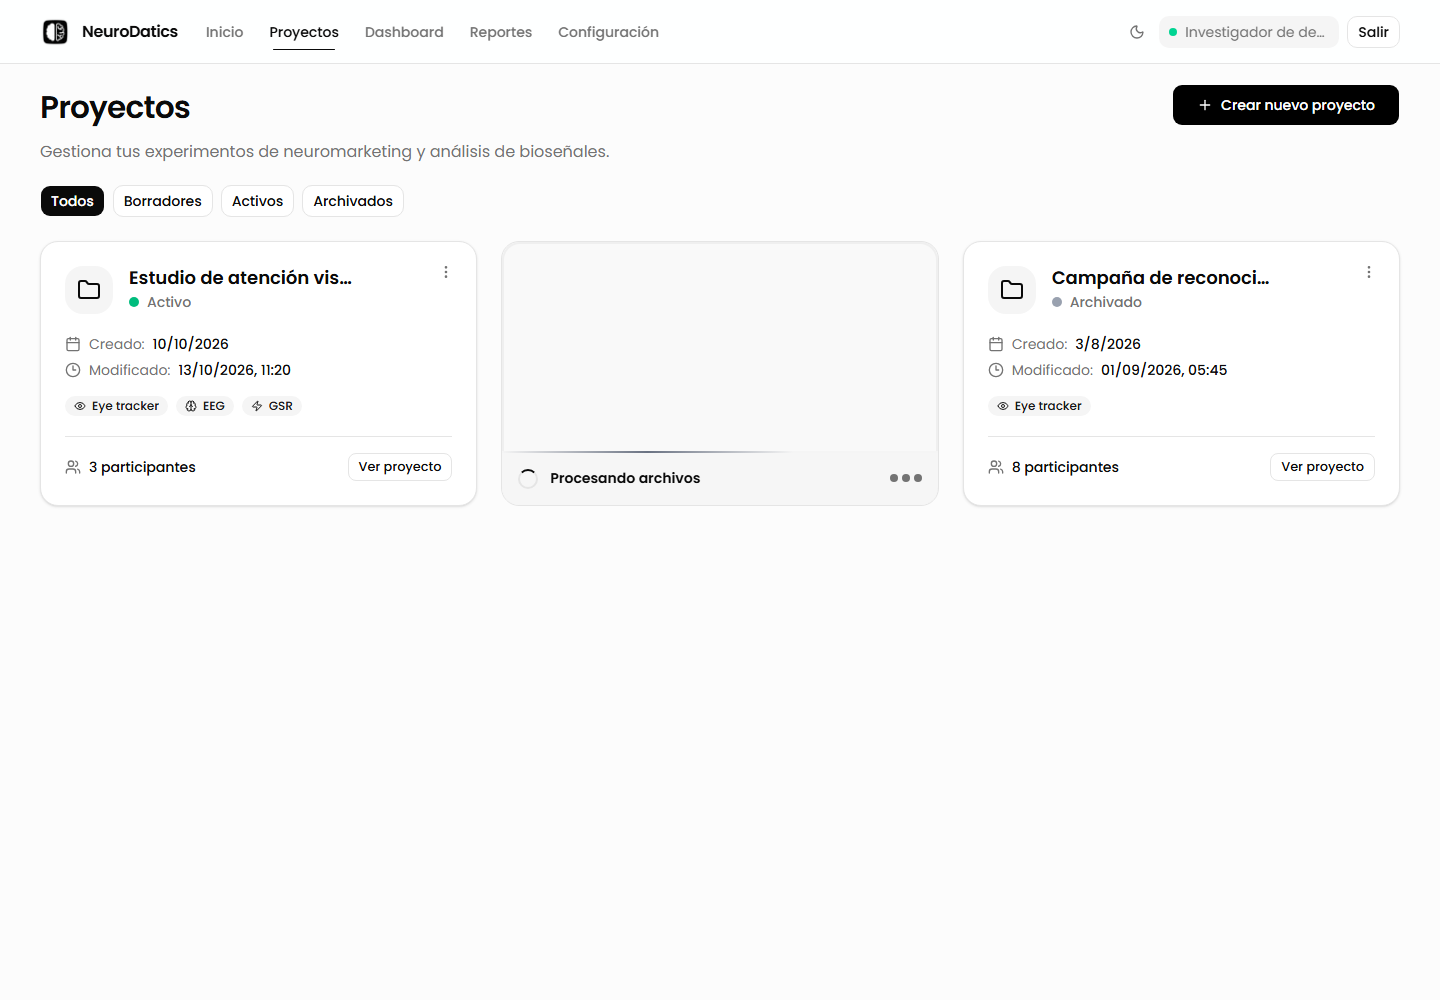
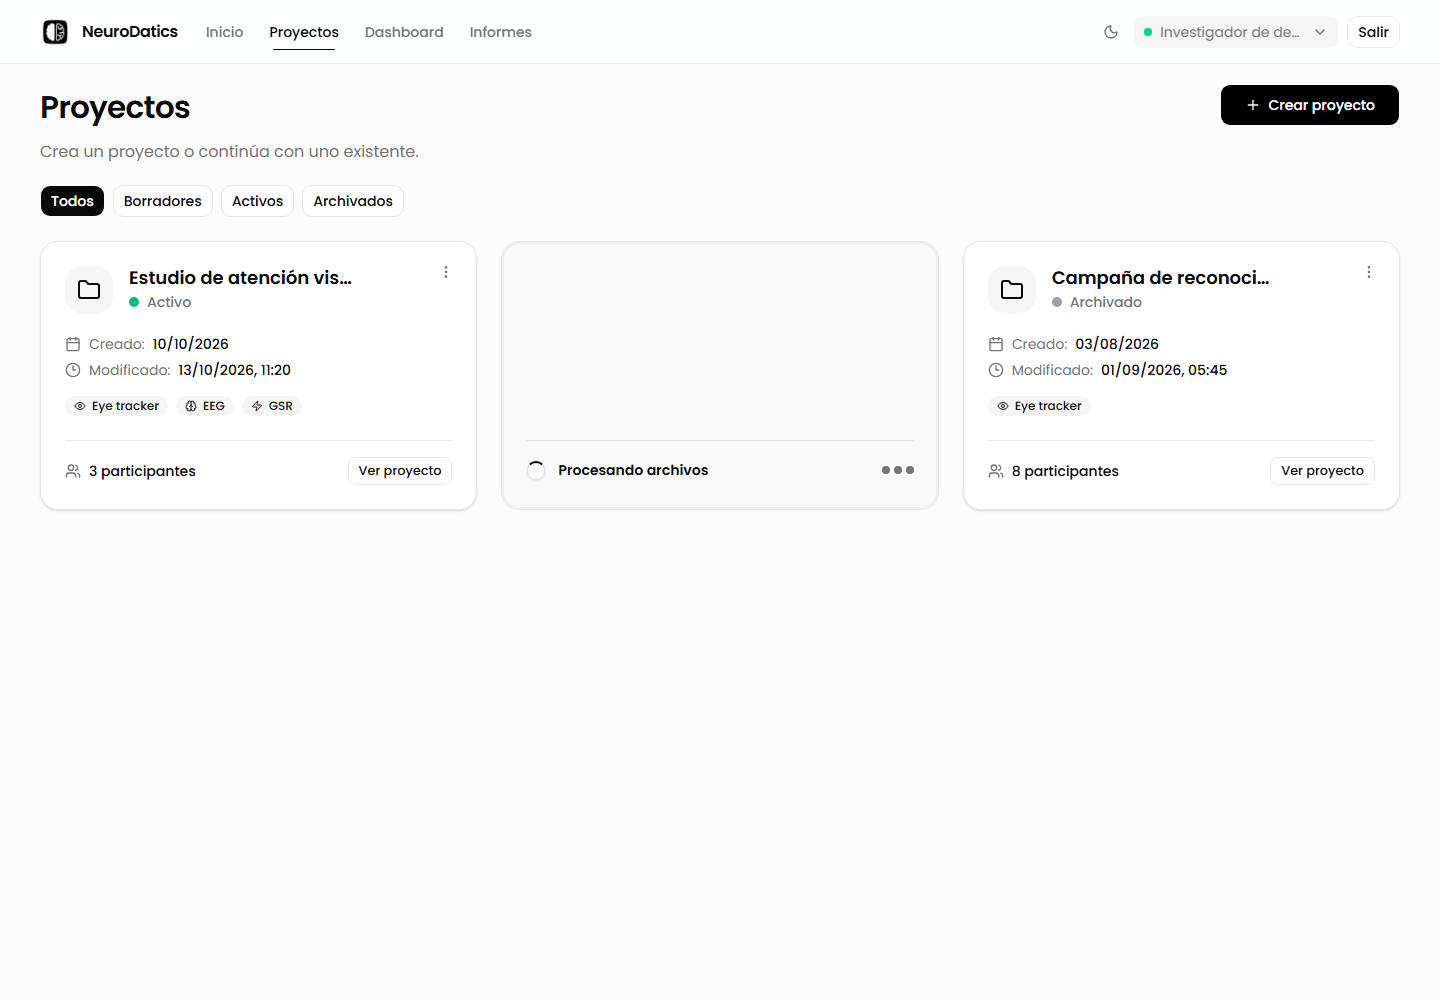
Capturas del manual regeneradas y CHANGELOG de la limpieza

diff --git a/docs/CHANGELOG.md b/docs/CHANGELOG.md
@@ -5,6 +5,48 @@ bajo **Sin publicar**, y pasan a una versión al entregarla.
 
 ## Sin publicar
 
+### Seguridad y fallos
+
+- **Estudiantes:** la aplicación ya no intenta abrir rutas de red (`\\equipo\carpeta`) que lleguen en la
+  dirección de una página. Antes, una web visitada con NeuroDatics abierto podía hacer que Windows enviara la
+  identidad del estudiante a otro equipo.
+- **Estudiantes:** la caché de vídeos y fotogramas se guarda en la carpeta de datos de NeuroDatics y se limpia
+  sola. Antes crecía sin límite en `C:\data`, que se puede borrar a mano.
+- **Servidor:** nueva opción `AUTH_ALLOWED_EMAILS` para decidir qué cuentas de Google pueden entrar (vacía =
+  todas, como hasta ahora). `deployment/CONFIGURACION-GOOGLE.md` recomienda además dejar la app de Google en modo
+  de prueba con las cuentas del laboratorio.
+- **Servidor:** Next.js 16.4.2, que corrige varios fallos de seguridad del servidor web.
+- Un proyecto ajeno responde «no encontrado» antes de reservarse: nadie puede bloquear la edición de un proyecto
+  que no es suyo.
+- Los errores de Google ya no se muestran tal cual y el registro ya no guarda los parámetros de las direcciones.
+  Los errores internos y las secciones de informe que fallan dejan en el registro dónde fallaron, sin datos del
+  participante.
+- Renombrar un proyecto con carpeta en Drive ya no congela el servidor mientras responde Google.
+- Si la lista de proyectos no se puede cargar, se muestra solo el aviso de error. Ya no se guarda una copia de la
+  lista en el navegador, que otro usuario del mismo equipo podía ver.
+
+### Proyectos
+
+- Las fechas de los proyectos se ven igual en todas las pantallas, también justo después de crear uno.
+- Los errores al guardar un proyecto dicen el motivo, y el aviso de la conexión con Google Drive ya no aparece en
+  NeuroDatics Estudiantes.
+
+### Limpieza del repositorio
+
+- Se retiró código sin uso del backend y del frontend, y dos rutas que nadie llamaba (`PUT
+  /api/projects/{id}/scenaries` y `DELETE /api/projects/{id}/files/experiment-zip`): la colocación del estímulo
+  viaja con la subida y el ZIP se reemplaza subiéndolo de nuevo. `route_inventory.json` pasa de 52 a 50
+  operaciones por este motivo.
+- Se retira `auth_users.json` y la variable `AUTH_USER_STORE_PATH`: los usuarios viven solo en la base de datos.
+- El servidor instala las mismas versiones de pyarrow (25) y Pillow (12) con las que se prueba la aplicación.
+- Un solo manual de usuario, `manual/manual_usuario_neurodatics.md`, al día con la interfaz; capturas
+  regeneradas con `npm run capture:manual` (fuera de las pruebas e2e). El PDF se genera según `manual/README.md`
+  y se entrega como adjunto, fuera de git.
+- La documentación técnica refleja que Google Drive se administra solo desde el servidor. La entrega del
+  servidor ya no trae scripts para Linux.
+- Pruebas: `verify.ps1` en verde (1248 pruebas del backend, 25 snapshots sin regenerar, ESLint 0/6) y 50 pruebas
+  e2e.
+
 ### Un solo aviso para «Selecciona un escenario específico»
 
 - **Las gráficas que necesitan un escenario concreto muestran el mismo aviso con «Todos los escenarios»:** un
@@ -77,9 +119,6 @@ bajo **Sin publicar**, y pasan a una versión al entregarla.
   «Vuelve a conectar Google Drive».
 - La edición de estudiantes no cambia: ya no mostraba Drive. El paquete de estudiantes 1.11 ya se compiló con
   este cambio en el árbol de trabajo. `verify.ps1` en verde (1231 pruebas del backend).
-- La captura `manual/assets/screenshots/06-configuracion.png` y el PDF del manual aún muestran la tarjeta de
-  Drive. No se pudieron regenerar: `frontend/tests/e2e/manual_capture.spec.ts` busca botones que ya cambiaron
-  de nombre («Crear nuevo proyecto» y el dashboard), así que hay que ponerlo al día antes.
 
 ### Dashboard
 

diff --git a/manual/README.md b/manual/README.md
@@ -12,7 +12,7 @@ cd frontend
 npm run capture:manual
 ```
 
-Sobrescribe las imágenes de `manual/assets/screenshots/`. Si el puerto 3000 está ocupado, define
+Sobrescribe las imágenes de `manual/assets/screenshots/`. Si el puerto 3100 está ocupado, define
 `PLAYWRIGHT_PORT` antes de ejecutarlo.
 
 ## PDF
